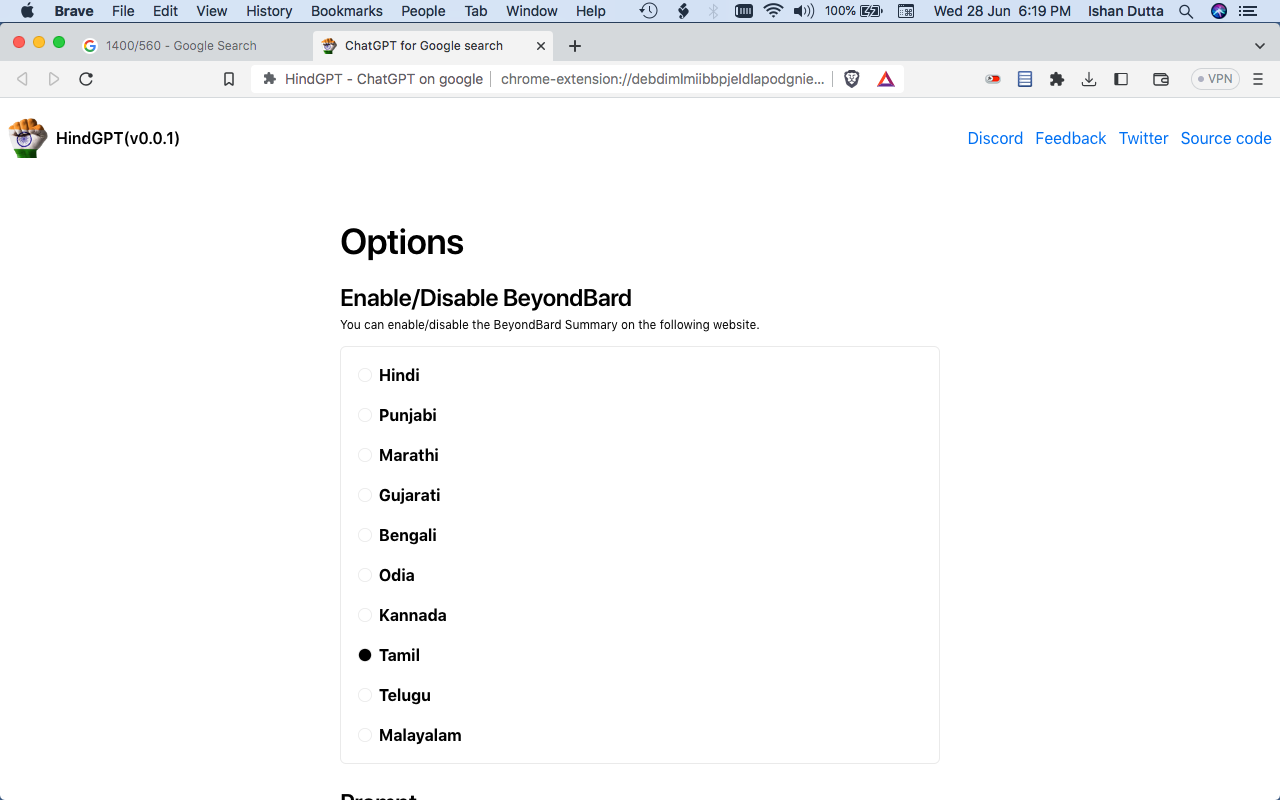
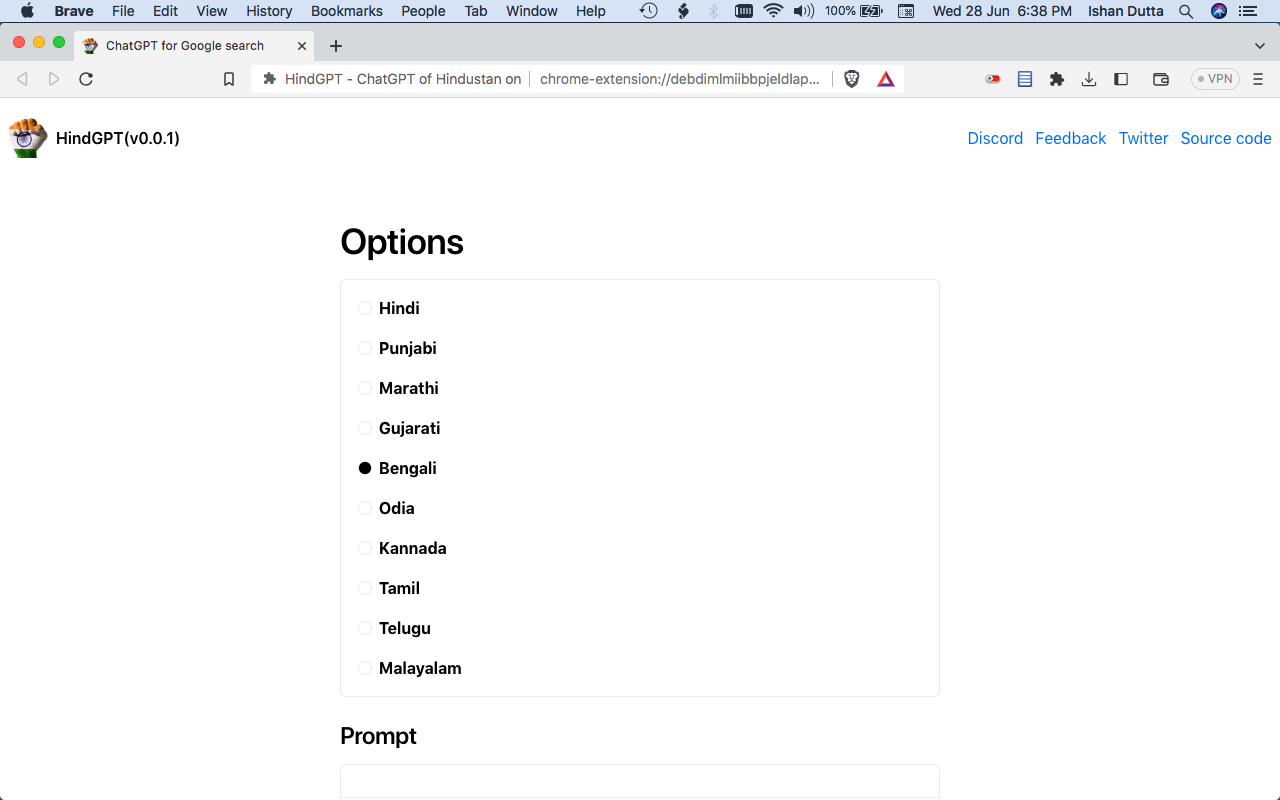
cleanup

diff --git a/src/options/ChooseLanguage.tsx b/src/options/ChooseLanguage.tsx
@@ -33,13 +33,6 @@ function ChooseLanguage(props: Props) {
     <>
       {!isIOS && (
         <>
-          <Text h3 className="beyondbard--mt-5">
-            Enable/Disable BeyondBard
-            <Text font="12px" my={0}>
-              You can enable/disable the BeyondBard Summary on the following website.
-            </Text>
-          </Text>
-
           <Card>
             <Card.Content>
               <Radio.Group
